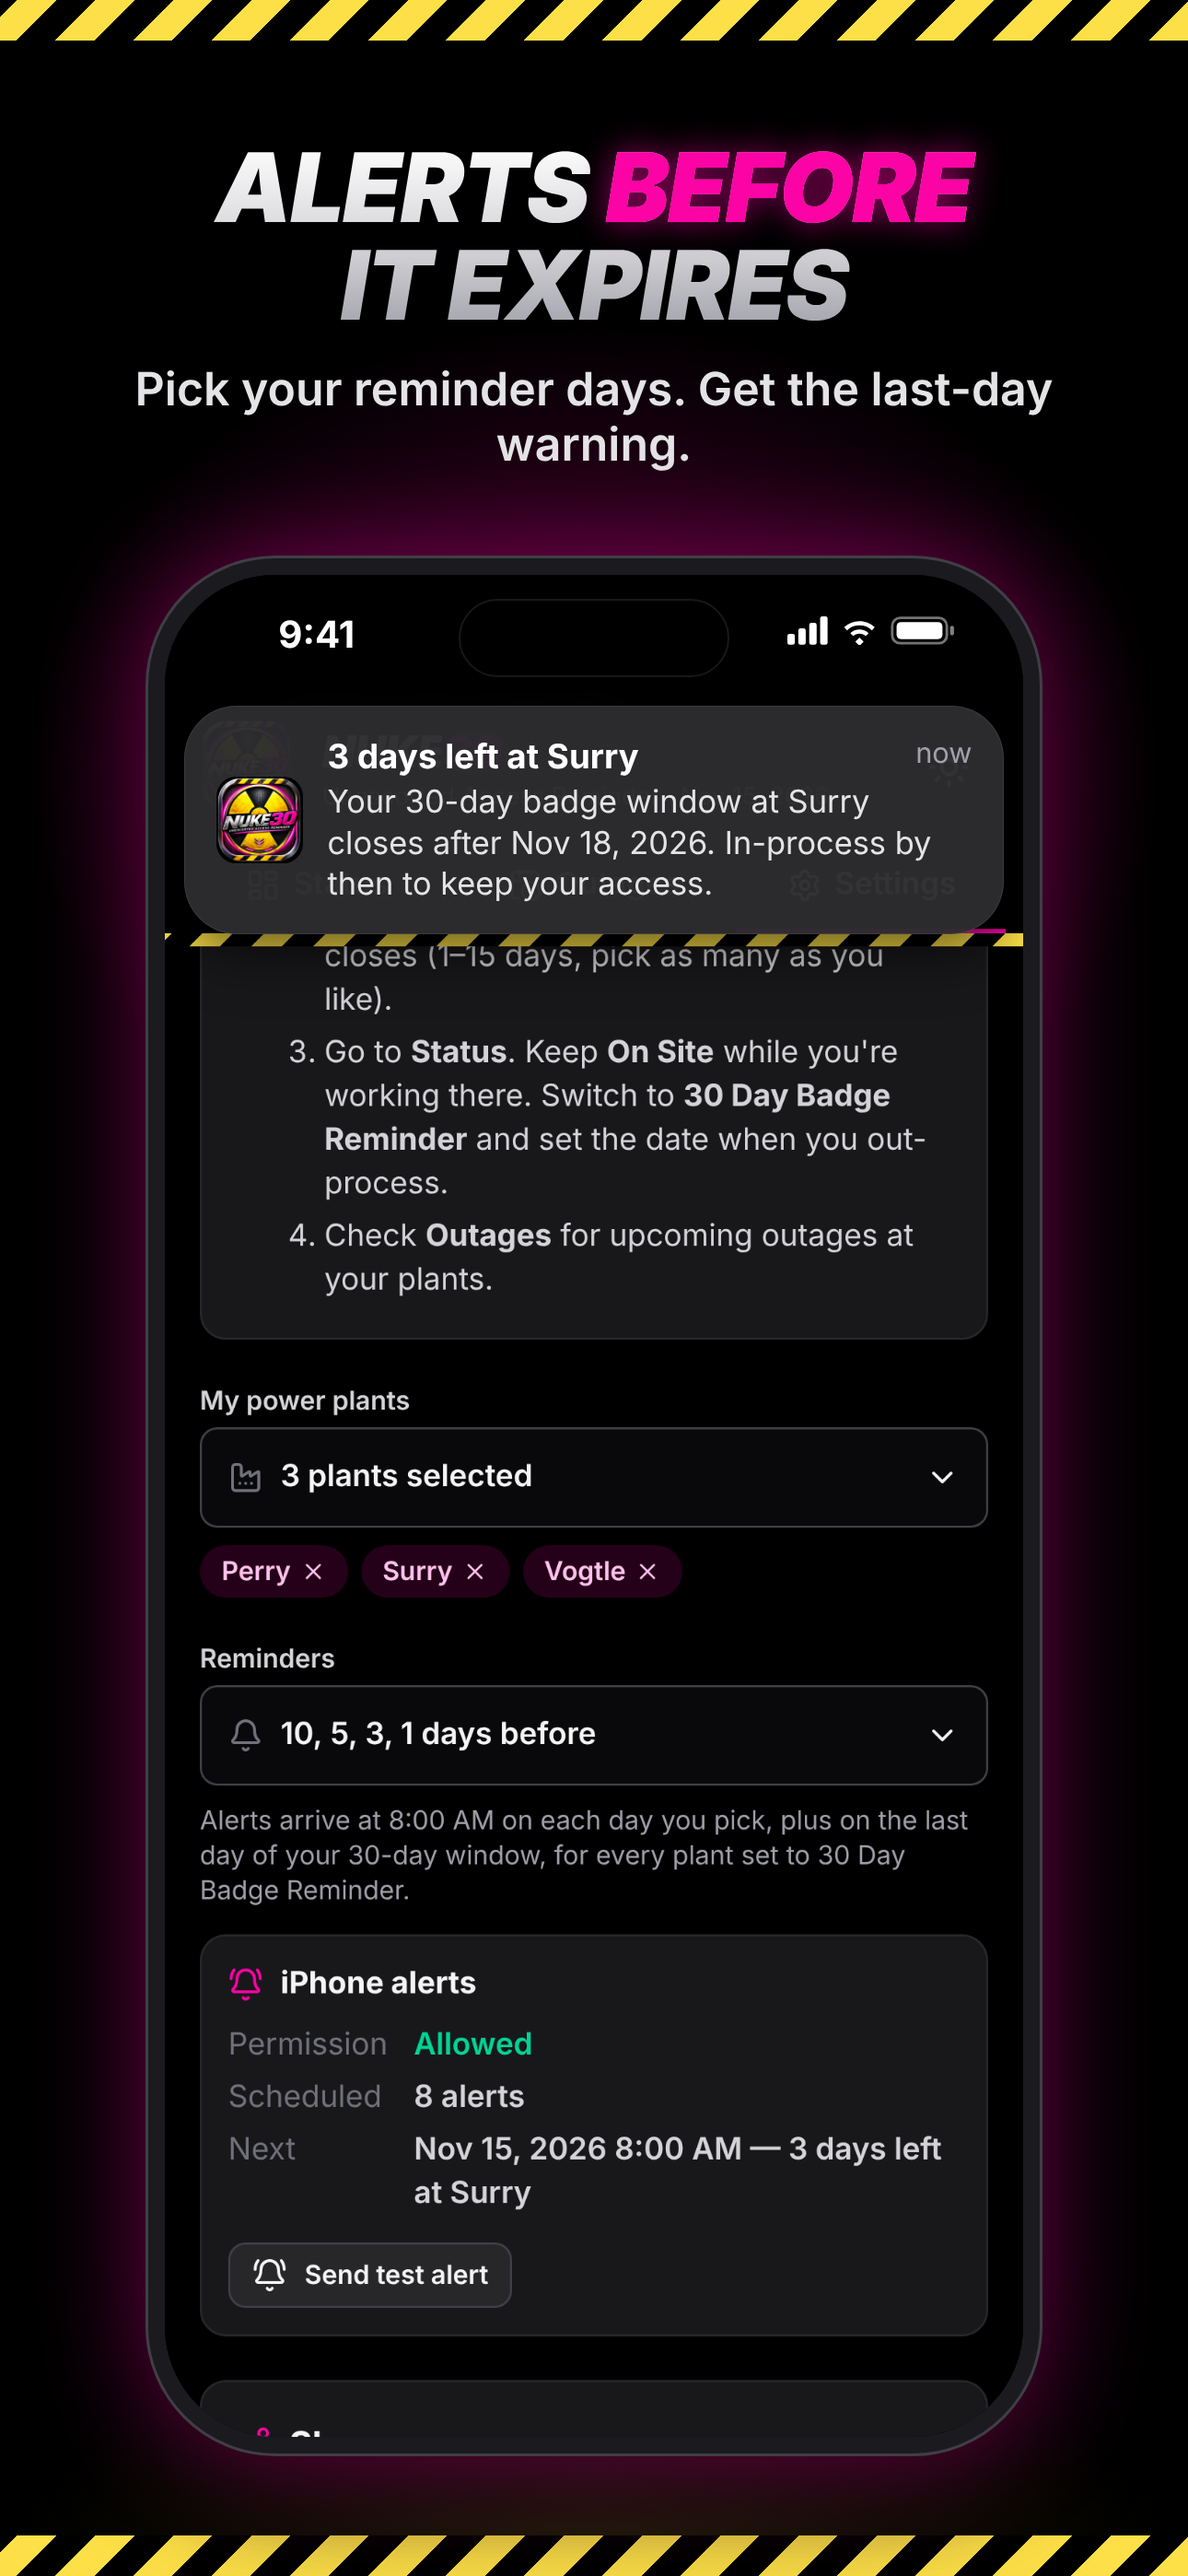
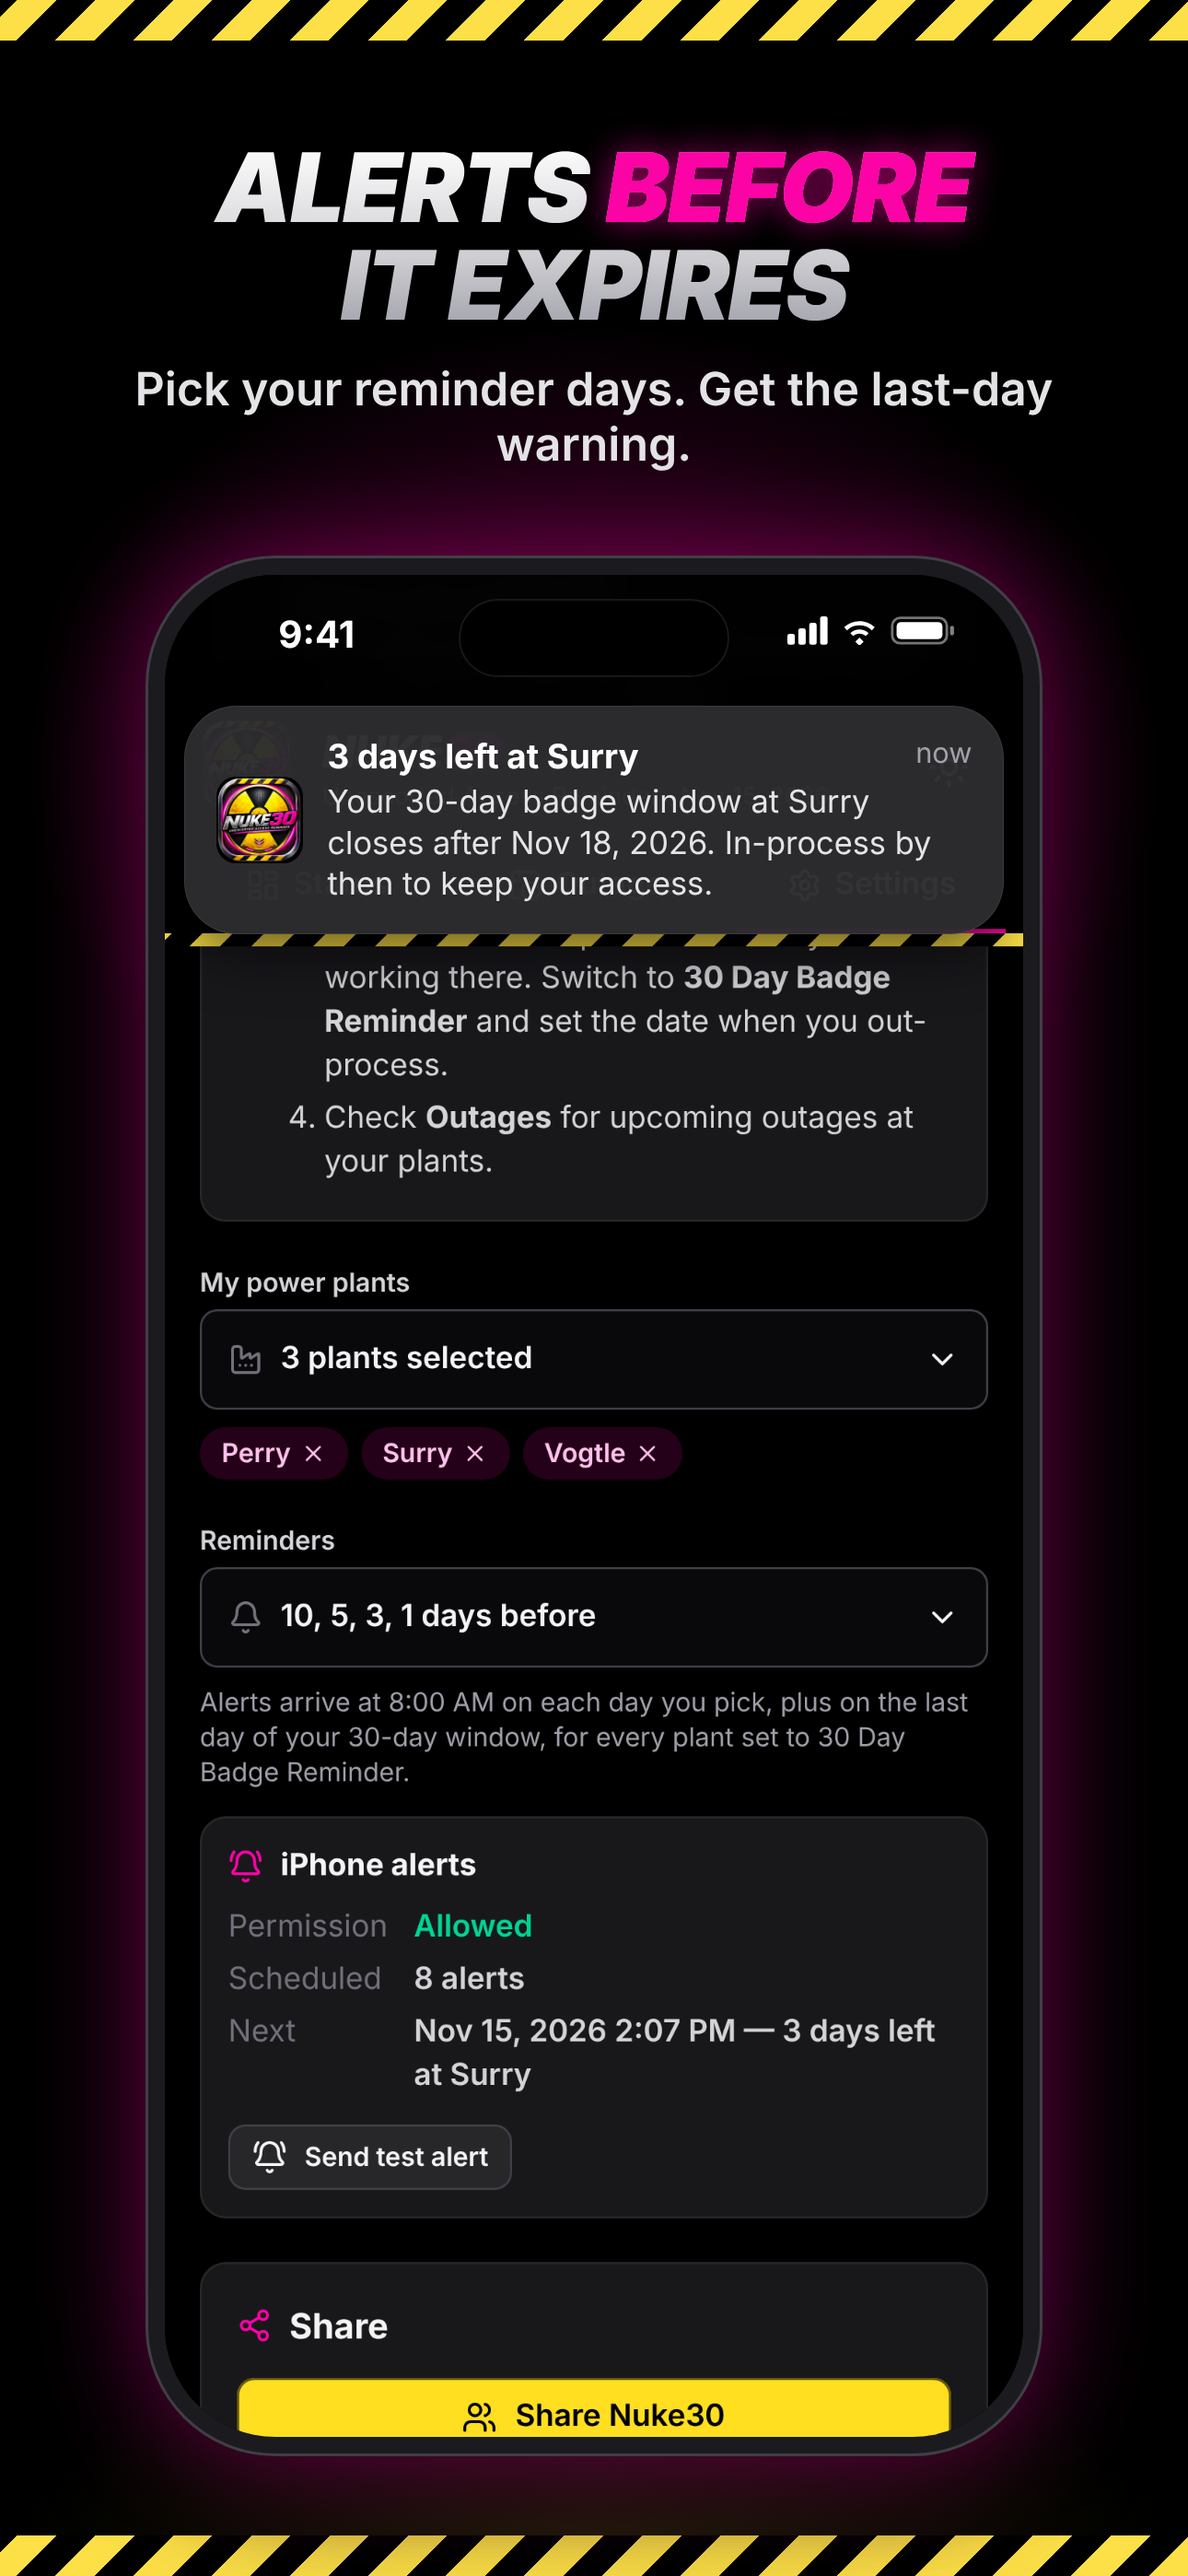
Settings: Help & outage updates section with the support email
- Email link plus Email for help / Send an outage update buttons
  (the outage update opens a pre-filled email)
- Support email set on the privacy and support pages, the App Store
  description and the submission checklist
- Store screenshots regenerated

Claude-Session: https://claude.ai/code/session_015bXqQxwjdqiK5C49veWxGr

Changed region(s): [[0.155, 0.3734, 0.8372, 0.9646]]

diff --git a/src/components/SettingsView.tsx b/src/components/SettingsView.tsx
@@ -1,14 +1,18 @@
 "use client";
-import { Bell, BellRing, Factory, Info, Share2, Users, X } from "lucide-react";
+import { Bell, BellRing, CalendarClock, Factory, Info, LifeBuoy, Mail, Share2, Users, X } from "lucide-react";
 import { useMemo, useState } from "react";
 import type { AppActions } from "@/hooks/useAppData";
 import { PLANTS, PLANTS_BY_ID } from "@/data";
 import { formatDisplayDate, toISODate } from "@/utils/dateLogic";
 import { isNativeApp, sendTestAlert, type AlertPermission } from "@/utils/notifications";
 import type { PlannedReminder } from "@/utils/reminders";
+import { HELP_MAILTO, OUTAGE_UPDATE_MAILTO, SUPPORT_EMAIL } from "@/utils/contact";
 import { appInviteText, shareText } from "@/utils/share";
 import { MultiSelect, type Option } from "./MultiSelect";
 import { Button, cx } from "./ui";
+
+const linkButton =
+  "inline-flex items-center justify-center gap-2 rounded-lg border border-zinc-300 bg-white px-3.5 py-2 text-sm font-semibold text-zinc-800 hover:bg-zinc-50 dark:border-zinc-700 dark:bg-zinc-800 dark:text-zinc-100 dark:hover:bg-zinc-700";
 
 const DAY_OPTIONS: Option[] = Array.from({ length: 15 }, (_, i) => {
   const n = i + 1;
@@ -213,6 +217,30 @@ export function SettingsView({
           just a short description of Nuke30.
         </p>
         {shareMsg && <p className="mt-2 text-xs font-medium text-zinc-700 dark:text-zinc-300">{shareMsg}</p>}
+      </section>
+
+      <section className="rounded-xl border border-zinc-200 bg-white p-4 dark:border-zinc-800 dark:bg-zinc-900">
+        <p className="flex items-center gap-2 font-bold">
+          <Mail className="h-4 w-4 text-magenta-500" /> Help &amp; outage updates
+        </p>
+        <p className="mt-1 text-sm text-zinc-700 dark:text-zinc-300">
+          Email{" "}
+          <a href={HELP_MAILTO} className="font-semibold break-all text-magenta-600 underline dark:text-magenta-400">
+            {SUPPORT_EMAIL}
+          </a>{" "}
+          for help or to provide outage updates.
+        </p>
+        <div className="mt-3 flex flex-col gap-2">
+          <a href={HELP_MAILTO} className={linkButton}>
+            <LifeBuoy className="h-4 w-4" /> Email for help
+          </a>
+          <a href={OUTAGE_UPDATE_MAILTO} className={linkButton}>
+            <CalendarClock className="h-4 w-4" /> Send an outage update
+          </a>
+        </div>
+        <p className="mt-2 text-xs text-zinc-500 dark:text-zinc-400">
+          Know an exact outage date? Send it in and it can be added for everyone in a future update.
+        </p>
       </section>
     </div>
   );

diff --git a/docs/index.html b/docs/index.html
@@ -26,8 +26,13 @@
 <p class="updated">Unescorted access reminder for nuclear outage workers</p>
 
 <h2>Get help</h2>
-<p>Email <a href="mailto:SUPPORT_EMAIL">SUPPORT_EMAIL</a>. Tell us what you were doing and,
+<p>Email <a href="mailto:Nuke30app@outlook.com">Nuke30app@outlook.com</a>. Tell us what you were doing and,
 if you can, attach a screenshot.</p>
+
+<h2>Send an outage update</h2>
+<p>Know an exact outage date? Email it to
+<a href="mailto:Nuke30app@outlook.com?subject=Nuke30%20outage%20update">Nuke30app@outlook.com</a>
+with the plant, unit, start date and length, and it can be added for everyone in a future update.</p>
 
 <h2>Common questions</h2>
 

diff --git a/src/utils/contact.test.ts b/src/utils/contact.test.ts
@@ -1,0 +1,11 @@
+import { describe, expect, it } from "vitest";
+import { HELP_MAILTO, mailto, OUTAGE_UPDATE_MAILTO, SUPPORT_EMAIL } from "./contact";
+
+describe("contact links", () => {
+  it("build mailto links to the support address", () => {
+    expect(SUPPORT_EMAIL).toBe("Nuke30app@outlook.com");
+    expect(HELP_MAILTO).toBe("mailto:Nuke30app@outlook.com?subject=Nuke30%20help");
+    expect(mailto("A & B", "line 1\nline 2")).toBe("mailto:Nuke30app@outlook.com?subject=A%20%26%20B&body=line%201%0Aline%202");
+    expect(decodeURIComponent(OUTAGE_UPDATE_MAILTO)).toContain("Plant: \nUnit: \nOutage start date: ");
+  });
+});

diff --git a/src/utils/contact.ts b/src/utils/contact.ts
@@ -1,0 +1,14 @@
+/** Public contact address for help and outage-date updates. */
+export const SUPPORT_EMAIL = "Nuke30app@outlook.com";
+
+export function mailto(subject: string, body = ""): string {
+  const q = [`subject=${encodeURIComponent(subject)}`, body ? `body=${encodeURIComponent(body)}` : ""].filter(Boolean);
+  return `mailto:${SUPPORT_EMAIL}?${q.join("&")}`;
+}
+
+export const HELP_MAILTO = mailto("Nuke30 help");
+
+export const OUTAGE_UPDATE_MAILTO = mailto(
+  "Nuke30 outage update",
+  ["Plant: ", "Unit: ", "Outage start date: ", "Length (days): ", "How you know (call-out, site notice, etc.): "].join("\n"),
+);

diff --git a/docs/privacy.html b/docs/privacy.html
@@ -67,7 +67,7 @@ badge photos or site security details. Please do not type them into the app.</p>
 <p>If this policy changes, the new version will be posted on this page with a new date.</p>
 
 <h2>Contact</h2>
-<p>Questions? Email <a href="mailto:SUPPORT_EMAIL">SUPPORT_EMAIL</a>.</p>
+<p>Questions? Email <a href="mailto:Nuke30app@outlook.com">Nuke30app@outlook.com</a>.</p>
 
 <p><em>Nuke30 is a personal planning aid. It is not affiliated with the NRC, any utility or
 any staffing company.</em></p>

diff --git a/marketing/app-store-copy.md b/marketing/app-store-copy.md
@@ -65,6 +65,9 @@ AND A LITTLE FUN
 ABOUT THE OUTAGE DATES
 Utilities don't publish exact outage schedules. Nuke30 projects them from the NRC's public daily reactor power reports and each unit's refueling cycle. Treat them as good estimates and go by your call-out for exact dates.
 
+HELP AND OUTAGE UPDATES
+Questions, or know an exact outage date? Email Nuke30app@outlook.com.
+
 IMPORTANT
 Nuke30 is a personal planning aid. It is not an official access determination and is not affiliated with the NRC, any utility or any staffing company. Your site's access authorization program has the final say.
 ```

diff --git a/marketing/app-store-checklist.md b/marketing/app-store-checklist.md
@@ -38,7 +38,8 @@ Everything to paste is in [`app-store-copy.md`](app-store-copy.md). The six scre
 - [ ] **Build:** click **+** (or "Add Build") and pick the newest one
 - [ ] **App Review Information:**
   - untick **Sign-in required**
-  - fill in your contact name, phone and email
+  - fill in your contact name and phone
+  - **Email:** `Nuke30app@outlook.com`
   - **Notes:** paste from "App Review notes"
 - [ ] **Version Release:** "Automatically release this version"
 - [ ] Click **Save**
